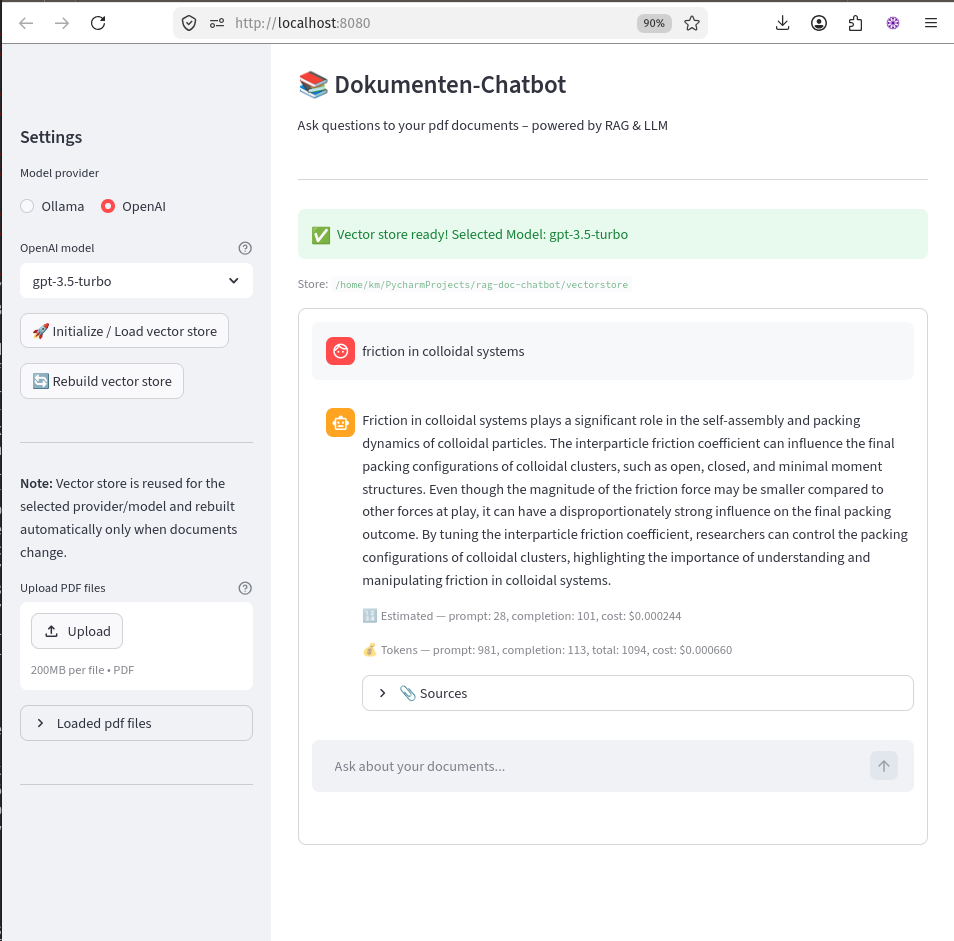
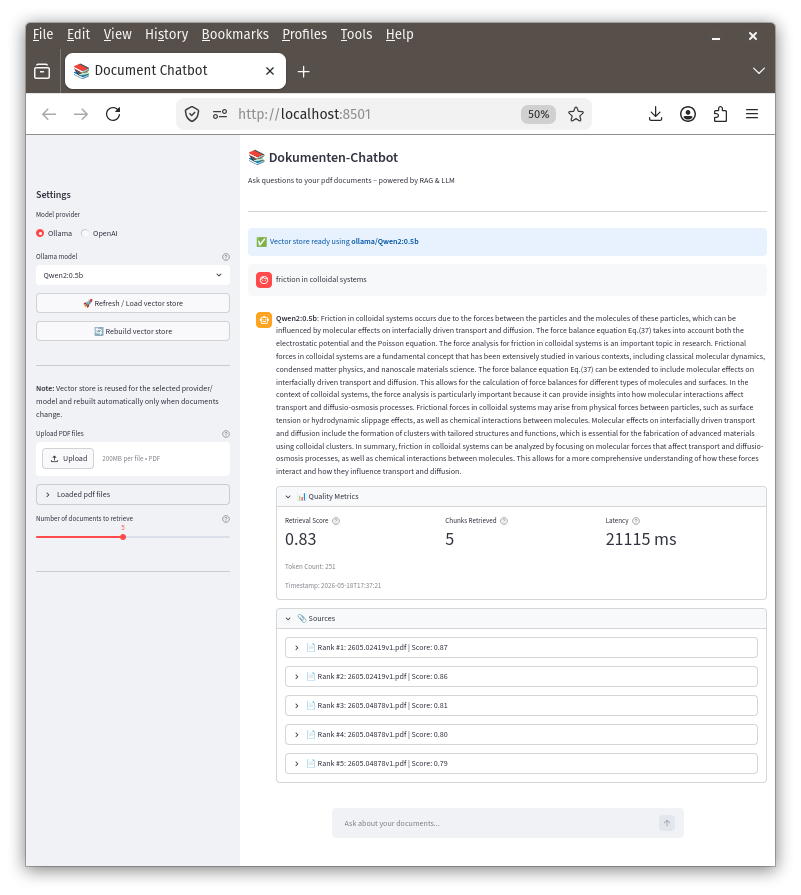
improve source rendering and retrieval metrics: add rank, similarity score, and enhanced path resolution; update frontend with download button and expanded metadata

diff --git a/rag_doc_frontend/source_view.py b/rag_doc_frontend/source_view.py
@@ -7,15 +7,38 @@ def resolve_source_path(source: str) -> Path | None:
     if not source or source == "Unknown":
         return None
     raw_path = Path(source)
-    if raw_path.is_absolute() and raw_path.exists():
-        return raw_path
+    # Check absolute path
+    if raw_path.is_absolute():
+        if raw_path.exists():
+            return raw_path
+        # If it's absolute but doesn't exist, maybe it was a relative path stored as absolute during indexing?
+        # Try checking relative to project root (which is parent of rag_doc_frontend)
+        root_relative = (Path(__file__).resolve().parent.parent / source).resolve()
+        if root_relative.exists():
+            return root_relative
+            
+    # Check relative to frontend dir
     candidate = (Path(__file__).resolve().parent / raw_path).resolve()
-    return candidate if candidate.exists() else None
+    if candidate.exists():
+        return candidate
+        
+    # Check relative to project root
+    root_candidate = (Path(__file__).resolve().parent.parent / raw_path).resolve()
+    if root_candidate.exists():
+        return root_candidate
+        
+    return None
 
 
 def render_sources(sources: list, key_prefix: str):
+    if not sources:
+        return
     for i, source in enumerate(sources):
-        with st.expander(f"📄 Source {i}: {Path(source['source'])}"):
+        rank = source.get("rank", i + 1)
+        score = source.get("similarity_score")
+        score_display = f" | Score: {score:.2f}" if score is not None else ""
+        
+        with st.expander(f"📄 Rank #{rank}: {Path(source['source']).name}{score_display}"):
             col1, col2 = st.columns([3, 1])
 
             with col1:
@@ -26,7 +49,21 @@ def render_sources(sources: list, key_prefix: str):
             with col2:
                 source_path = resolve_source_path(source.get("source", ""))
                 if source_path:
-                    st.markdown(source_path)
+                    try:
+                        file_bytes = source_path.read_bytes()
+                        st.download_button(
+                            label="Download",
+                            data=file_bytes,
+                            file_name=source_path.name,
+                            mime="application/pdf",
+                            key=f"{key_prefix}_dl_{i}_{source_path.name}",
+                            use_container_width=True
+                        )
+                    except Exception as e:
+                        st.error(f"Error loading file for download: {e}")
+                else:
+                    # Fallback: display the path if file not found to help debugging
+                    st.caption(f"Path: {source.get('source')}")
 
 
 def render_opened_source():
@@ -38,6 +75,21 @@ def render_opened_source():
     if opened_path.exists() and opened_path.suffix.lower() == ".pdf":
         with st.expander(f"📂 Opened source: {opened_source.get('label', opened_path.name)}", expanded=True):
             st.pdf(opened_path.read_bytes(), height=700)
+            
+            # Add download button in opened view too
+            try:
+                file_bytes = opened_path.read_bytes()
+                st.download_button(
+                    label="Download PDF",
+                    data=file_bytes,
+                    file_name=opened_path.name,
+                    mime="application/pdf",
+                    key=f"opened_dl_{opened_path.name}",
+                    use_container_width=True
+                )
+            except Exception as e:
+                st.error(f"Error loading file for download: {e}")
+
             page_hint = opened_source.get("page")
             search_hint = opened_source.get("search_text")
             if page_hint or search_hint:

diff --git a/rag_doc_backend/generation/generate_answer.py b/rag_doc_backend/generation/generate_answer.py
@@ -17,15 +17,25 @@ def generate_answer(qa_chain, question: str, use_openai_api: bool, context: str 
     logger.debug(source_documents)
 
     sources = []
-    for doc in source_documents:
+    for i, doc in enumerate(source_documents):
         source_path = doc.metadata.get("source", "Unknown")
         chunk_text = (doc.page_content or "").strip().replace("\n", " ")
         page_number = doc.metadata.get("page")
         page_one_based = int(page_number) + 1 if isinstance(page_number, int) else None
         search_text = " ".join(chunk_text.split())[:120]
+        
+        # Calculate individual similarity score (normalized)
+        raw_score = doc.metadata.get("score")
+        if isinstance(raw_score, (int, float)):
+            similarity_score = round(max(0.0, 1.0 - (float(raw_score) / 2.0)), 4)
+        else:
+            similarity_score = None
+
         if len(chunk_text) > 220:
             chunk_text = chunk_text[:220].rstrip() + "..."
         sources.append({
+            "rank": i + 1,
+            "similarity_score": similarity_score,
             "source": source_path,
             "chunk_preview": chunk_text,
             "page": page_one_based,

diff --git a/rag_doc_backend/retrieval/search_vectors.py b/rag_doc_backend/retrieval/search_vectors.py
@@ -1,10 +1,29 @@
+from langchain_chroma import Chroma
 from langchain_classic.chains import RetrievalQA
+from langchain_core.retrievers import BaseRetriever
+from langchain_core.callbacks import CallbackManagerForRetrieverRun
+from langchain_core.documents import Document
+from typing import List
 
+class ScoreRetriever(BaseRetriever):
+    vectorstore: Chroma
+    k: int
+
+    def _get_relevant_documents(
+        self, query: str, *, run_manager: CallbackManagerForRetrieverRun
+    ) -> List[Document]:
+        docs_and_scores = self.vectorstore.similarity_search_with_score(query, k=self.k)
+        results = []
+        for doc, score in docs_and_scores:
+            doc.metadata["score"] = score
+            results.append(doc)
+        return results
 
 def build_vector_search_chain(llm, vectorstore, k=5) -> RetrievalQA:
+    retriever = ScoreRetriever(vectorstore=vectorstore, k=k)
     return RetrievalQA.from_chain_type(
         llm=llm,
         chain_type="stuff",
-        retriever=vectorstore.as_retriever(search_kwargs={"k": k}),
+        retriever=retriever,
         return_source_documents=True,
     )

diff --git a/rag_doc_backend/metrics/quality_metrics.py b/rag_doc_backend/metrics/quality_metrics.py
@@ -11,8 +11,17 @@ def build_quality_metrics(source_documents: list, answer: str, latency_ms: int, 
         if isinstance(score, (int, float)):
             scores.append(float(score))
         logger.debug(doc.json())
+    if scores:
+        # Chroma/L2: Lower is better (0 is perfect match). 
+        # Convert to a 0-1 scale where 1 is perfect match.
+        # This is an approximation.
+        avg_score = sum(scores) / len(scores)
+        retrieval_score = max(0.0, 1.0 - (avg_score / 2.0))
+    else:
+        retrieval_score = None
+
     return {
-        "similarity_score": round(sum(scores) / len(scores), 4) if scores else None,
+        "similarity_score": round(retrieval_score, 4) if retrieval_score is not None else None,
         "num_chunks": len(source_documents),
         "latency_ms": latency_ms,
         "token_count": token_usage["total_tokens"] if token_usage else len(answer.split()),

diff --git a/rag_doc_frontend/sidebar.py b/rag_doc_frontend/sidebar.py
@@ -10,6 +10,18 @@ class Sidebar:
 
     def render(self):
         with st.sidebar:
+            st.markdown(
+                """
+                <style>
+                div.stButton > button {
+                    display: flex;
+                    justify-content: flex-start;
+                    width: 100%;
+                }
+                </style>
+                """,
+                unsafe_allow_html=True
+            )
             st.header("Settings")
             self._render_model_provider_settings()
             self._render_engine_actions()
@@ -110,7 +122,6 @@ class Sidebar:
             "Number of documents to retrieve",
             min_value=1,
             max_value=10,
-            value=st.session_state.k,
             key="k",
             help="Number of documents to retrieve for each query",
         )

diff --git a/rag_doc_backend/tests/test_api.py b/rag_doc_backend/tests/test_api.py
@@ -47,6 +47,8 @@ class TestRAGAPI:
             "answer": "The company revenue is €8.7M (mocked).",
             "sources": [
                 {
+                    "rank": 1,
+                    "similarity_score": 0.9,
                     "source": "docs/report.pdf",
                     "chunk_preview": "Revenue was €8.7M in 2023.",
                     "page": 1,
@@ -67,6 +69,8 @@ class TestRAGAPI:
         data = response.json()
         assert data["answer"] == "The company revenue is €8.7M (mocked)."
         assert "€8.7M" in data["answer"]
+        assert data["sources"][0]["rank"] == 1
+        assert data["sources"][0]["similarity_score"] == 0.9
 
     def test_query_empty_query(self, client):
         """Test validation – empty query"""

diff --git a/rag_doc_frontend/app.py b/rag_doc_frontend/app.py
@@ -24,6 +24,7 @@ st.markdown(
         }
         .stApp [data-testid="stMainBlockContainer"] {
             padding-top: 0rem;
+            max-width: 100%;
         }
         
     </style>
@@ -52,7 +53,6 @@ sidebar = Sidebar(initialize_engine)
 sidebar.render()
 
 chat_view = ChatView()
-with st.container(height=600):
-    chat_view.render()
+chat_view.render()
 
 render_opened_source()
